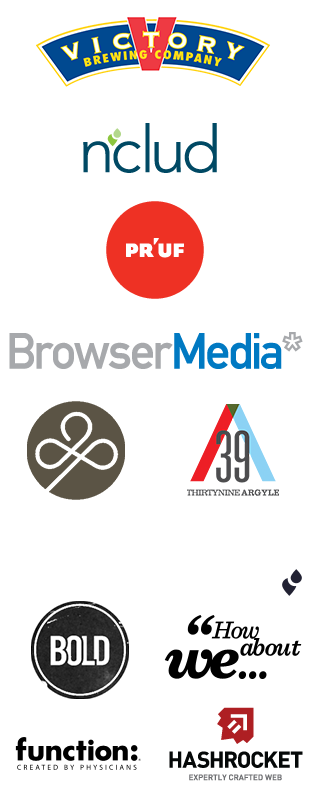
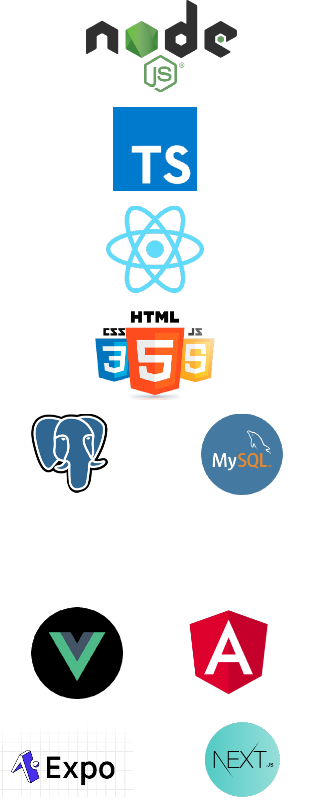
feat: all tecnlogies

diff --git a/index.html b/index.html
@@ -1,8 +1,3 @@
-<!-- ---
-layout: nil
-css_version: '19'
-script_version: '08'
---- -->
 <!doctype html>
 <!--[if lt IE 7 ]> <html lang="en" class="no-js ie6"> <![endif]-->
 <!--[if IE 7 ]>    <html lang="en" class="no-js ie7"> <![endif]-->
@@ -10,50 +5,22 @@ script_version: '08'
 <!--[if (gte IE 9)|!(IE)]><!--> <html lang="en" class="no-js"> <!--<![endif]-->
 <head>
   <meta charset="utf-8" />
-
-  <!-- 
-  
-  888888b.   8888888888 8888888888 8888888b.   .d8888b.        d8888 888b     d888 8888888b.  
-  888  "88b  888        888        888   Y88b d88P  Y88b      d88888 8888b   d8888 888   Y88b 
-  888  .88P  888        888        888    888 888    888     d88P888 88888b.d88888 888    888 
-  8888888K.  8888888    8888888    888   d88P 888           d88P 888 888Y88888P888 888   d88P 
-  888  "Y88b 888        888        8888888P"  888          d88P  888 888 Y888P 888 8888888P"  
-  888    888 888        888        888 T88b   888    888  d88P   888 888  Y8P  888 888        
-  888   d88P 888        888        888  T88b  Y88b  d88P d8888888888 888   "   888 888        
-  8888888P"  8888888888 8888888888 888   T88b  "Y8888P" d88P     888 888       888 888
-  
-  
-     ###    ########     ######  ##     ##  ######  ##      ##     #######    #####     ###     ###   
-   ##   ##     ##       ##.....    ## ##   ##.....  ##  ##  ##      .....## ##     ##    ##      ##   
-  #########    ##         ````##   ## ##     ````## ##  ##  ##    ##`````   ##     ##    ##      ##   
-  ##     ##    ##        ######  ##     ##  ######   ###  ###     #########   #####    ######  ######
-  
-  by nclud
-  
-  -->
-
   <meta name = "viewport" content = "width = 1000">
-
   <meta http-equiv="X-UA-Compatible" content="IE=edge,chrome=1" />
   
   <title>Emmanuel Stocco</title>
   
   <meta name="description" content="An awesome party for web folk and classy people. Sunday, March 13 2011, starting at 8:00, at Emo's 603 Red River St. Austin, TX" />
   <meta name="author" content="nclud" />
-  
   <link rel="stylesheet" href="css/style.css?v{{ page.css_version }}" />
-  
   <script src="js/modernizr.js"></script>
-
 </head>
 <body>
 
 <div id="wrap">
 
-  <div id="offset"></div> <!-- #offset -->
-  
+  <div id="offset"></div> 
   <div id="container">
-    
     <ul id="nav">
       <li class="intro"><a href="#intro" class="page-nav">Introdução</a></li>
       <li class="featuring"><a href="#featuring" class="page-nav">Apresentação</a></li>
@@ -63,21 +30,17 @@ script_version: '08'
     </ul>
     
     <div id="environment">
-
       <div id="content">
 
         <section id="intro">
-
           <h1>Emmanuel</h1>
           <h2>Stocco</h2>
-
           <time datetime="2011-03-13">
             <span class="day-of-week">Segunda</span> 
             <span class="day"><i>a</i> Sexta </span> 
             <!-- <span class="year">2022</span>  -->
             <span class="time">A partir das 9:00 PM</span>
           </time>
-
           <div class="location"> 
             <a href="https://www.google.com.br/maps?q=-12.158272+-44.998584+(Rua+Guanabara,+216+%E2%80%93+Recanto+do+LagoCentro,+Teixeira+de+Freitas,+BA,+45995000,+br)"> 
               <h4>End &rsquo;s</h4>  
@@ -85,18 +48,13 @@ script_version: '08'
               <p class="city">Franca, SP</p>
             </a> 
           </div>
-
-          <p class="blurb">Desenvolvedor Full-Stack </p>
-          
-          
+          <p class="blurb">Desenvolvedor Full-Stack </p>                  
           <div id="credit"><a href="http://www.github.com/EmmanuelStocco">criação de emmanuel stocco </a></div>
-
-            <!-- a href="http://nclud.com" -->
-          
         </section> <!-- #intro -->
 
         <section id="featuring">
-          <h1>Apresentando</h1>
+          <h1>Apresentação</h1>
+
           <div class="feature beverages">
             <h2>Formação</h2>
             <p>
@@ -111,6 +69,7 @@ script_version: '08'
               </strong>
             </p>
           </div>
+
           <div class="feature music">
             <h2>Habilidades</h2>
             <p>
@@ -143,36 +102,31 @@ script_version: '08'
             </p>
             <p class="badge">Full-stack Developer</p>
           </div>
-          <!-- <div class="links">
-            Follow <a href="http://twitter.com/nclud">@nclud</a> for updates.
-            Declare your attendance on <a href="http://www.sitby.us/event/OE00327/">SitBy.Us</a> or <a href="http://plancast.com/p/3r19">Plancast</a>
-          </div> -->
-          <button class="links" onclick="location.href = 'http://www.github.com/EmmanuelStocco';">
-            <!-- <a href="http://github.com/EmmanuelStocco"></a> -->
+          
+          <button class="links" onclick="location.href = 'http://www.github.com/EmmanuelStocco';">          
           </button>
         </section> <!-- #featuring -->
 
         <section id="sponsorz">
 
-          <h1>Sponsored By:</h1>
-
+          <h1>Stacks:</h1>
           <ul class="spnsr-list">
-            <li class="n1"><a class="victory ir" href="http://victorybeer.com/" title="Victory Brewing Company" >Victory Brewing Company</a></li>
-            <li class="n2"><a class="pruf ir" href="http://www.mypruf.com/" title="PR&rsquo;UF">PR&rsquo;UF</a></li>
-            <li class="n3"><a class="browser-media ir" href="http://www.browsermedia.com/" title="BrowserMedia">BrowserMedia</a></li>
-            <li class="n4 half"><a class="hanerino ir" href="http://hanerino.com/" title="Hanerino">Hanerino</a></li>
-            <li class="n5 half"><a class="function ir" href="http://functiondrinks.com" title="Function Drinks">Function Drinks</a></li>
-            <li class="n6 half"><a class="hashrocket ir" href="http://hashrocket.com/" title="Hashrocket">Hashrocket</a></li>
-            <li class="n7 half"><a class="argyle ir" href="http://39argyle.com" title="39Argyle">39Argyle</a></li>
-            <li class="n8"><a class="nclud ir" href="http://nclud.com/" title="nclud" >nclud</a></li>
-            <li class="n9 half"><a class="bold ir" href="http://twitter.com/boldinc" title="Bold" >Bold</a></li>
-            <li class="n10 half"><a class="howaboutwe ir" href="http://www.howaboutwe.com/" title="HowAboutWe.com">HowAboutWe.com</a></li>
+            <li class="n1"><a class="victory ir" href="https://nodejs.org/en/docs/" title="Node.js" >Node.js</a></li>
+            <li class="n2"><a class="pruf ir" href="https://reactnative.dev/docs/getting-started" title="React/React Native">React/React Native</a></li>
+            <li class="n3"><a class="browser-media ir" href="https://developer.mozilla.org/pt-BR/" title="Js/Html/Css">Js/Html/Css</a></li>
+            <li class="n4 half"><a class="hanerino ir" href="https://www.postgresql.org/docs/" title="postgreSQL">postgreSQL</a></li>
+            <li class="n5 half"><a class="function ir" href="https://docs.expo.dev/" title="Expo">Expo</a></li>
+            <li class="n6 half"><a class="hashrocket ir" href="https://nextjs.org/docs" title="Next.js">Next.js</a></li>
+            <li class="n7 half"><a class="argyle ir" href="https://dev.mysql.com/doc/" title="mySQL">mySQL</a></li>
+            <li class="n8"><a class="nclud ir" href="https://devdocs.io/typescript/" title="Typescript" >Typescript</a></li>
+            <li class="n9 half"><a class="bold ir" href="https://vuejs.org/" title="Vue.js" >Vue.js</a></li>
+            <li class="n10 half"><a class="howaboutwe ir" href="https://docs.angularjs.org/guide" title="Angular.JS ">Angular.JS </a></li>
           </ul>
 
-          <p class="fontfabric"><a href="http://fontfabric.com/">Fonts by <b>Fontfabric</b></a></p>
+          <!-- <p class="fontfabric"><a href="http://fontfabric.com/">Fonts by <b>Fontfabric</b></a></p> -->
 
           <p class="blurb">
-            Drink up. These guys are buying the rounds.
+            Tecnologias que tenho experiencia
           </p>
         </section> <!-- #sponsorz -->
 
